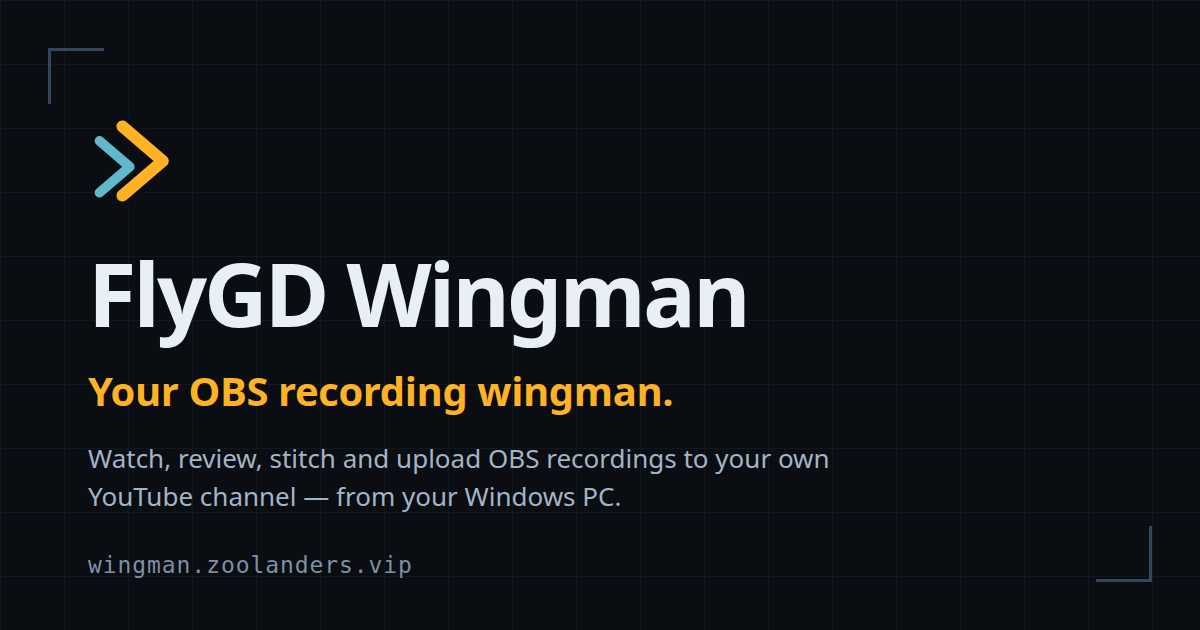
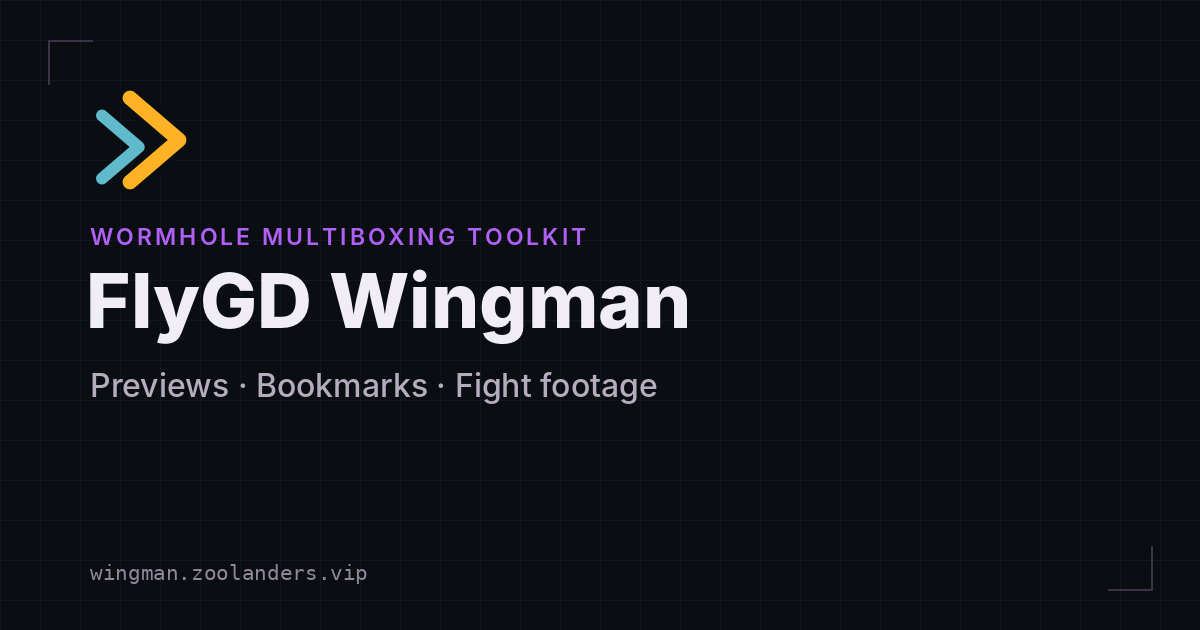
chore: validate and document the v5 site

diff --git a/public/terms.html b/public/terms.html
@@ -1,4 +1,4 @@
-<!doctype html>
+<!DOCTYPE html>
 <html lang="en">
 <head>
 <meta charset="utf-8">
@@ -18,6 +18,7 @@
 <meta property="og:image" content="https://wingman.zoolanders.vip/og.png">
 <meta property="og:image:width" content="1200">
 <meta property="og:image:height" content="630">
+<meta property="og:image:alt" content="FlyGD Wingman: EVE Online wormhole multiboxing toolkit">
 <meta name="twitter:card" content="summary_large_image">
 <link rel="stylesheet" href="/styles.css">
 </head>
@@ -68,7 +69,7 @@
     <div class="legal-body">
 
       <h2 id="acceptance">1. Acceptance of these terms</h2>
-      <p>These terms apply to the FlyGD Wingman desktop application (“Wingman”, “the software”) and to this website at <b>wingman.zoolanders.vip</b>. By downloading, installing or using the software, or by using this site, you agree to them. If you do not agree, do not install or use the software.</p>
+      <p>These terms apply to this website at <b>wingman.zoolanders.vip</b> and to the FlyGD Wingman desktop application (“Wingman”, “the software”) as officially distributed by the project. By using this website, or by installing or using the officially distributed application, you agree to the parts of these terms that apply to you. Running, studying, modifying and redistributing the software under GPL-3.0-only never requires accepting these terms; section 3 explains how the two relate, and the licence prevails wherever they differ on your rights in the software itself. If you do not agree to the parts that apply to you, do not use this website, and do not install or use the officially distributed application.</p>
       <p>“We”, “us” and “the maintainers” mean the volunteer contributors who develop and publish the project. There is no company, no incorporated entity and no commercial service behind it.</p>
       <p>These terms govern the published application and this website. They are not a software licence, and they do not add conditions to the rights the project's licence grants you. Section 3 explains the relationship between the two.</p>
 

diff --git a/public/google-oauth.html b/public/google-oauth.html
@@ -1,4 +1,4 @@
-<!doctype html>
+<!DOCTYPE html>
 <html lang="en">
 <head>
 <meta charset="utf-8">
@@ -18,7 +18,7 @@
 <meta property="og:image" content="https://wingman.zoolanders.vip/og.png">
 <meta property="og:image:width" content="1200">
 <meta property="og:image:height" content="630">
-<meta property="og:image:alt" content="FlyGD Wingman">
+<meta property="og:image:alt" content="FlyGD Wingman: EVE Online wormhole multiboxing toolkit">
 <meta name="twitter:card" content="summary_large_image">
 <link rel="stylesheet" href="/styles.css">
 </head>
@@ -71,6 +71,7 @@
       <p>There is no FlyGD backend. Google data never reaches the maintainers, because there is no system that could receive it.</p>
       <dl class="kv">
         <div><dt>Credentials</dt><dd>Your Google OAuth access and refresh tokens are stored on your own PC in the application's data folder, as described in the <a href="/privacy#storage">Privacy Policy</a>.</dd></div>
+        <div><dt>Channel info</dt><dd>The channel ID and channel title of your last successful upload, learned from Google's response and stored locally so the application can show you where uploads land.</dd></div>
         <div><dt>Upload history</dt><dd>A local record mapping each uploaded recording to the YouTube URL it produced, kept on your PC so the application can show you what has already been uploaded.</dd></div>
         <div><dt>Each upload sends</dt><dd>The video file you selected, plus the title, description, category and privacy status you set. Video data travels directly from your PC to Google.</dd></div>
       </dl>

diff --git a/public/privacy.html b/public/privacy.html
@@ -1,4 +1,4 @@
-<!doctype html>
+<!DOCTYPE html>
 <html lang="en">
 <head>
 <meta charset="utf-8">
@@ -18,6 +18,7 @@
 <meta property="og:image" content="https://wingman.zoolanders.vip/og.png">
 <meta property="og:image:width" content="1200">
 <meta property="og:image:height" content="630">
+<meta property="og:image:alt" content="FlyGD Wingman: EVE Online wormhole multiboxing toolkit">
 <meta name="twitter:card" content="summary_large_image">
 <link rel="stylesheet" href="/styles.css">
 </head>

diff --git a/public/index.html b/public/index.html
@@ -1,4 +1,4 @@
-<!doctype html>
+<!DOCTYPE html>
 <html lang="en">
 <head>
 <meta charset="utf-8">
@@ -27,7 +27,7 @@
   "@context": "https://schema.org",
   "@type": "SoftwareApplication",
   "name": "FlyGD Wingman",
-  "applicationCategory": "MultimediaApplication",
+  "applicationCategory": "UtilitiesApplication",
   "operatingSystem": "Windows 10, Windows 11",
   "url": "https://wingman.zoolanders.vip/",
   "downloadUrl": "https://github.com/elboaf/FlyGD-Wingman/releases/latest",

diff --git a/public/404.html b/public/404.html
@@ -1,4 +1,4 @@
-<!doctype html>
+<!DOCTYPE html>
 <html lang="en">
 <head>
 <meta charset="utf-8">

diff --git a/README.md b/README.md
@@ -1,7 +1,11 @@
-# FlyGD Wingman — website
+# FlyGD Wingman - website
 
-The public website for **FlyGD Wingman**, a free and open-source Windows
-companion application for OBS Studio.
+The public website for **FlyGD Wingman v5**, a free and open-source Windows
+wormhole multiboxing toolkit for EVE Online. It previews and switches every
+running client, fires wormhole mapping and rolling keybinds, watches gamelogs
+and the fleet combat bar for trouble, helps prepare profiles, skills and
+fittings between fights, and uploads the fight footage you select to your own
+YouTube channel.
 
 Live at **https://wingman.zoolanders.vip**
 
@@ -14,19 +18,42 @@ Live at **https://wingman.zoolanders.vip**
 | *(anything else)* | `public/404.html` | Not-found page |
 
 The site also serves the Google OAuth verification requirements: the homepage
-explains the single requested scope (`youtube.upload`), what it is used for,
-where credentials are stored, and how to revoke access; the Privacy Policy and
-Terms are linked from the header and footer of every page.
+and the dedicated `/google-oauth` page explain the single requested scope
+(`youtube.upload`), what it is used for, where credentials are stored, and how
+to revoke access; the Privacy Policy and Terms are linked from the header and
+footer of every page.
+
+## Primary workflows
+
+The homepage is organised around FlyGD Wingman's three equally-important
+workflows, plus the fleet-awareness and fleet-preparation features that
+support them:
+
+- **Previews**: mirrors every running EVE client into an always-on-top
+  preview window and switches which one is active, without resizing or
+  moving the game windows.
+- **Bookmarks**: 18 FlyGD keybinds place wormhole mapping bookmarks and
+  drive rolling from an explicit keypress in an enabled client.
+- **Uploading**: reviews, plays, renames or stitches the recordings OBS or
+  the optional FightRecorder plugin produced, and uploads the ones you select
+  to your own YouTube channel.
+- **Client awareness**: watches gamelogs for combat starts, warp disruption
+  and decloaks, and keeps a fleet-wide combat bar.
+- **Fleet preparation**: Profiles, Skills and Fittings help prepare between
+  fights, authorized once per character through EVE SSO.
 
 ## What this is built with
 
 Nothing. That is deliberate.
 
 Hand-written HTML, one stylesheet, and inline SVG. There is **no framework, no
-build step, no bundler, and no runtime JavaScript** — the files in `public/`
-are exactly what gets served. The only dependency in the project is
-[Wrangler](https://developers.cloudflare.com/workers/wrangler/), and that is
-used solely to preview and deploy.
+build step, no bundler, and no runtime JavaScript** - the files in `public/`
+are exactly what gets served. This is unchanged from earlier versions of the
+site: only the product content, metadata and imagery describe v5. The only
+dependencies in the project are
+[Wrangler](https://developers.cloudflare.com/workers/wrangler/), used to
+preview and deploy, and [html-validate](https://html-validate.org/), used by
+`npm run check` to catch HTML defects locally.
 
 There are no cookies, no analytics, no trackers, and no external fonts or
 assets, so no consent banner is required.
@@ -38,24 +65,48 @@ public/
   wingman-mark.svg        # original logo mark
   favicon.svg  favicon.ico  apple-touch-icon.png
   og.png                  # Open Graph card (1200×630)
+  media/                  # product screenshots used on the homepage
   robots.txt  sitemap.xml
   _headers                # security headers + cache policy
 scripts/check-links.mjs   # zero-dependency link checker
+scripts/check-content.mjs # zero-dependency page-content contract checker
 wrangler.jsonc            # Cloudflare configuration
 ```
 
+### `public/media/`
+
+The homepage screenshots in `public/media/` (`wingman-previews.webp`,
+`wingman-bookmarks.webp`, `wingman-fittings.webp`, `wingman-uploader.webp`)
+are WEBP derivatives of PNG captures taken directly from the v5.0.0 build of
+[elboaf/FlyGD-Wingman](https://github.com/elboaf/FlyGD-Wingman), converted to
+RGB, thumbnailed to a maximum width of 1600px, and re-encoded at WEBP
+quality 82. The source screenshots are not committed to this repository; if
+you need to regenerate a derivative, recapture the corresponding screen from
+a current release build and repeat that conversion with Pillow. There is no
+committed script that automates this end to end, since it only needs to run
+on the rare occasion a screenshot goes stale.
+
+The Open Graph card (`public/og.png`) was produced the same way: a one-off
+Pillow script rendered the Command deck palette and the real
+`wingman-mark.svg` (rasterised with cairosvg) onto a 1200×630 canvas with
+local system fonts (Inter for display type, a monospace system font for the
+domain line). That script is not committed either; regenerating the card
+only requires reproducing a 1200×630 PNG with the current wordmark, category,
+and tagline, checked at both full size and thumbnail size for legibility.
+
 ## Local development
 
-Requires Node.js 20 or newer.
+Requires **Node.js 20.11 or newer** (`scripts/check-content.mjs` uses
+`import.meta.dirname`, added in Node 20.11).
 
 ```bash
-npm install     # installs wrangler only
+npm install     # installs wrangler and html-validate
 npm run dev     # serves on http://localhost:8787
 ```
 
 `wrangler dev` serves `public/` through the same Workers Static Assets runtime
 that Cloudflare uses in production, so local URL behaviour matches the deployed
-site exactly — including `/privacy` resolving to `privacy.html` and unknown
+site exactly, including `/privacy` resolving to `privacy.html` and unknown
 paths returning the 404 page with a real 404 status.
 
 Edit a file and refresh. There is nothing to rebuild.
@@ -64,27 +115,40 @@ Edit a file and refresh. There is nothing to rebuild.
 
 There is no build step. `public/` is the deployable artifact.
 
-The only generated files are the icons and the Open Graph image, which are
-committed to the repository and only need regenerating if the logo or the
-wording on the card changes.
+The only generated files are the icons, the homepage screenshots and the
+Open Graph image, which are committed to the repository and only need
+regenerating if the product's UI, the logo, or the wording on the card
+changes.
 
 ## Checks
 
 ```bash
-npm run check              # internal links + fragment anchors
-node scripts/check-links.mjs --external   # also HEAD-checks outbound links
+npm run check              # the complete fast local gate (links + content + HTML)
+npm run check:links        # internal links + fragment anchors
+npm run check:content      # page-content contracts (licence, scopes, stale claims)
+npm run check:html         # html-validate against public/*.html
+node scripts/check-links.mjs --external   # also HEAD-checks outbound links (optional)
 ```
 
-The checker mirrors the production routing rules, so a link that passes here
-resolves on the deployed site. It exits non-zero on failure and is safe to run
-in CI.
+`check:links` mirrors the production routing rules, so a link that passes
+here resolves on the deployed site. `check:content` guards specific factual
+claims (the GPL-3.0-only licence, the exact OAuth and ESI scopes, stale
+wording that must never reappear) against each page's actual text.
+`check:html` runs [html-validate](https://html-validate.org/) with the
+project's `.htmlvalidate.json` config, extending `html-validate:recommended`
+with stricter accessible-name and inline-style rules. All three exit non-zero
+on failure and are safe to run in CI. The external-link check is optional
+because some providers block automated `HEAD` requests from this kind of
+environment; a failure there should be verified manually rather than treated
+as a broken link on faith.
 
-There is no test suite; there is no application code to test.
+There is no test suite; there is no application code in this repository to
+test.
 
 ## Deploying to Cloudflare
 
 The site deploys as a **Worker with static assets** (not Cloudflare Pages).
-No Worker script is present — `wrangler.jsonc` declares only an `assets`
+No Worker script is present; `wrangler.jsonc` declares only an `assets`
 directory, so Cloudflare serves the files directly from its edge without
 invoking any compute.
 
@@ -118,7 +182,7 @@ The first `deploy` creates a Worker named `flygd-wingman-site` and gives it a
 
 ### Custom domain: wingman.zoolanders.vip
 
-The domain is declared in `wrangler.jsonc`, so it is attached by deploying —
+The domain is declared in `wrangler.jsonc`, so it is attached by deploying,
 there is nothing to click:
 
 ```jsonc
@@ -139,7 +203,7 @@ The equivalent dashboard route, if you prefer it: **Workers & Pages** →
 `flygd-wingman-site` → **Settings → Domains & Routes → Add → Custom domain**.
 
 Every Worker also keeps a `*.workers.dev` URL. That is expected, not a
-misconfiguration — but it is not the address to give Google, because the pages'
+misconfiguration, but it is not the address to give Google, because the pages'
 `canonical` and `og:url` tags point at `wingman.zoolanders.vip`.
 
 Certificate issuance usually completes within a few minutes; until it does,
@@ -154,30 +218,52 @@ the hostname may briefly serve a TLS warning.
   the zone.
 - The `Strict-Transport-Security` header in `public/_headers` applies to
   subdomains. Only keep it if every host under `zoolanders.vip` serves HTTPS.
+- The project enables Workers observability (`observability.enabled` in
+  `wrangler.jsonc`). That governs Cloudflare's own operational logging of
+  Worker invocations for this account; it adds no script, cookie or analytics
+  to a visitor's browser. Matching static assets are served without invoking
+  Worker code at all, as documented on `/privacy`.
 
 ## Editing content
 
 Each page is a single self-contained HTML file with the header and footer
 inlined. There is no templating, so a change to the navigation or footer must
-be made in all four HTML files. This is a deliberate trade: four small
-duplications in exchange for no build tooling at all. `npm run check` will
-catch a link that gets out of step.
+be made in all five HTML files. This is a deliberate trade: duplication in
+exchange for no build tooling at all. `npm run check` will catch a link or a
+factual claim that gets out of step.
 
 `styles.css` holds the whole design system in CSS custom properties at the top.
 
 ## Accuracy policy
 
-The homepage and Privacy Policy describe the behaviour of the application as
-it is actually implemented in
-[elboaf/FlyGD-Wingman](https://github.com/elboaf/FlyGD-Wingman),
-verified against the source. In particular the site states that stored OAuth
-credentials are **not** encrypted, because they are not.
+The homepage, Privacy Policy, Terms of Service and the `/google-oauth` page
+describe the behaviour of the application as it is actually implemented in
+[elboaf/FlyGD-Wingman](https://github.com/elboaf/FlyGD-Wingman). Every product
+claim on this site has been verified against **v5.0.0**. In particular the
+site states that stored Google OAuth tokens and any Discord webhook URL are
+**not** encrypted, because they are not, while EVE refresh credentials are
+protected with Windows DPAPI, because they are.
 
-If the application changes how it handles credentials, network calls, or Google
-data, update `public/privacy.html` in the same release — and check the claims
-on the homepage's "YouTube uploads & Google permissions" section too.
+Product claims are release-specific and go stale as the application changes.
+**Every release that changes data handling, network calls, requested scopes,
+stored credentials, or product behaviour described here must be re-audited
+against this site before the release ships** - update `public/privacy.html`,
+`public/terms.html`, `public/google-oauth.html` and the relevant homepage
+sections in the same pass, and re-run `npm run check` afterwards.
+
+## Support and contact
+
+Public bug reports and feature requests go to the project's
+[GitHub Issues](https://github.com/elboaf/FlyGD-Wingman/issues). For anything
+sensitive - account access, privacy, or a security report - email
+**technical@zoolanders.vip** directly rather than filing a public issue.
 
 ## Licence
 
-The site content and code are part of the FlyGD Wingman project and released
-under the MIT Licence.
+The FlyGD Wingman application is free software released under the
+**GNU General Public License, version 3 only (GPL-3.0-only)**; the full
+licence text accompanies the source in the
+[project repository](https://github.com/elboaf/FlyGD-Wingman). This website's
+own HTML, CSS and supporting files are part of the same project and carry no
+separate licence grant beyond that repository's terms; the site is not
+separately licensed under any other terms.
